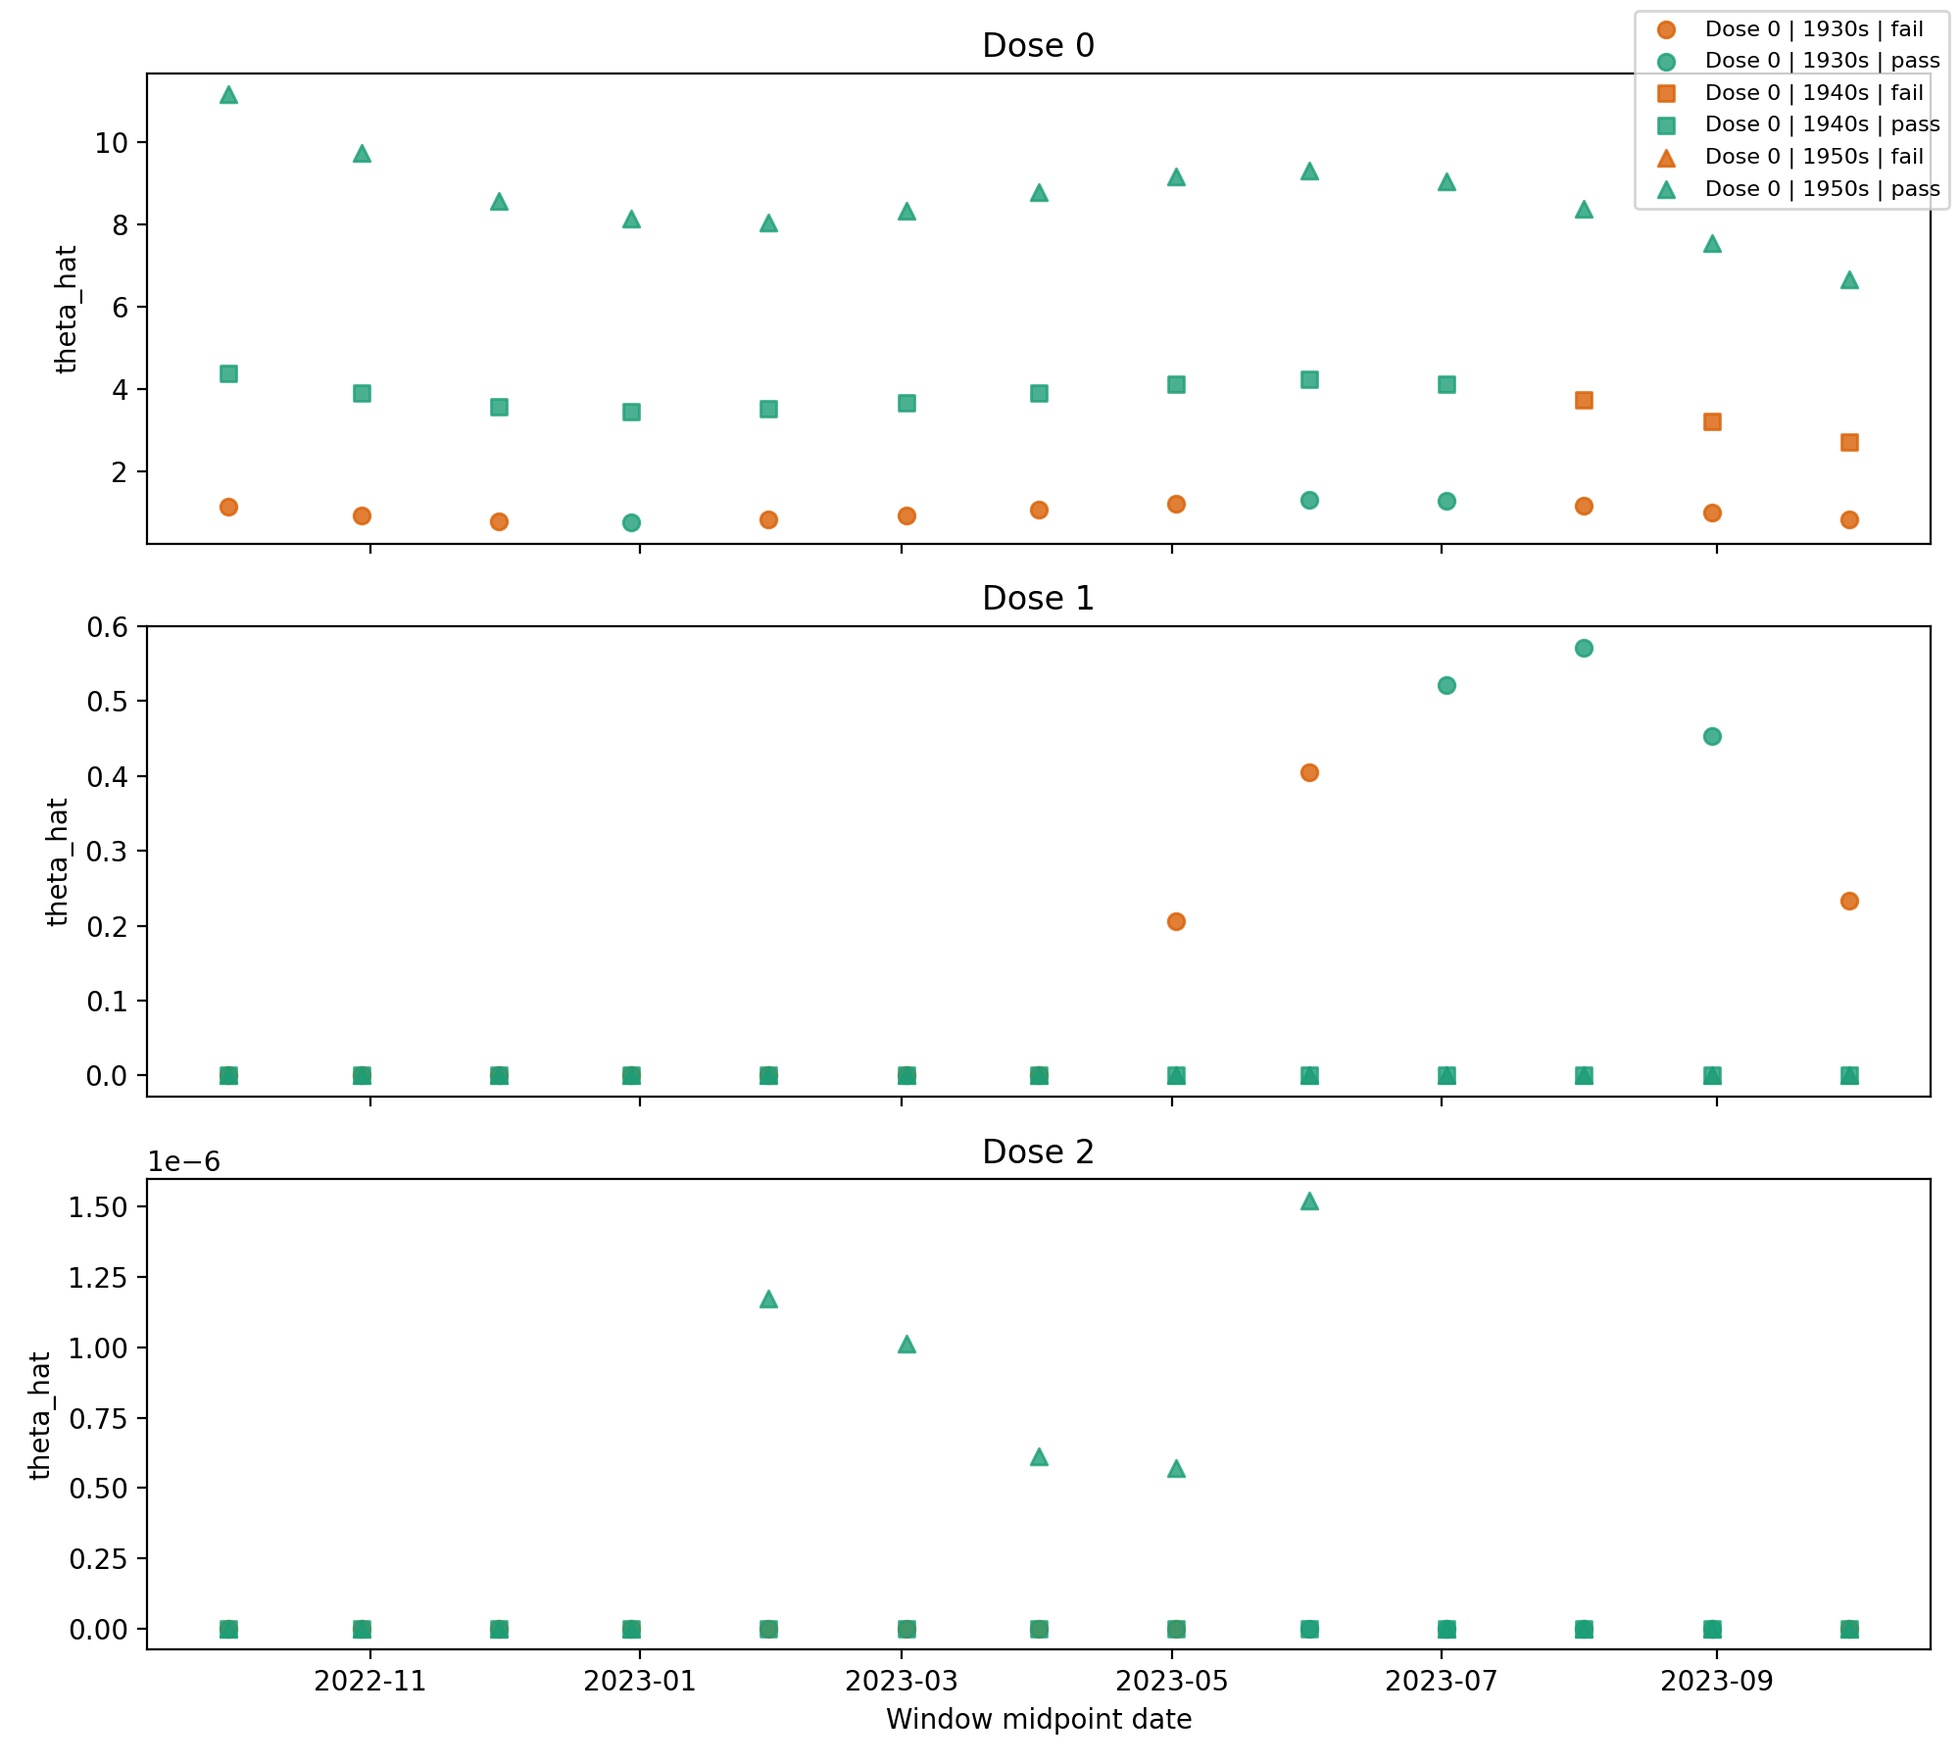
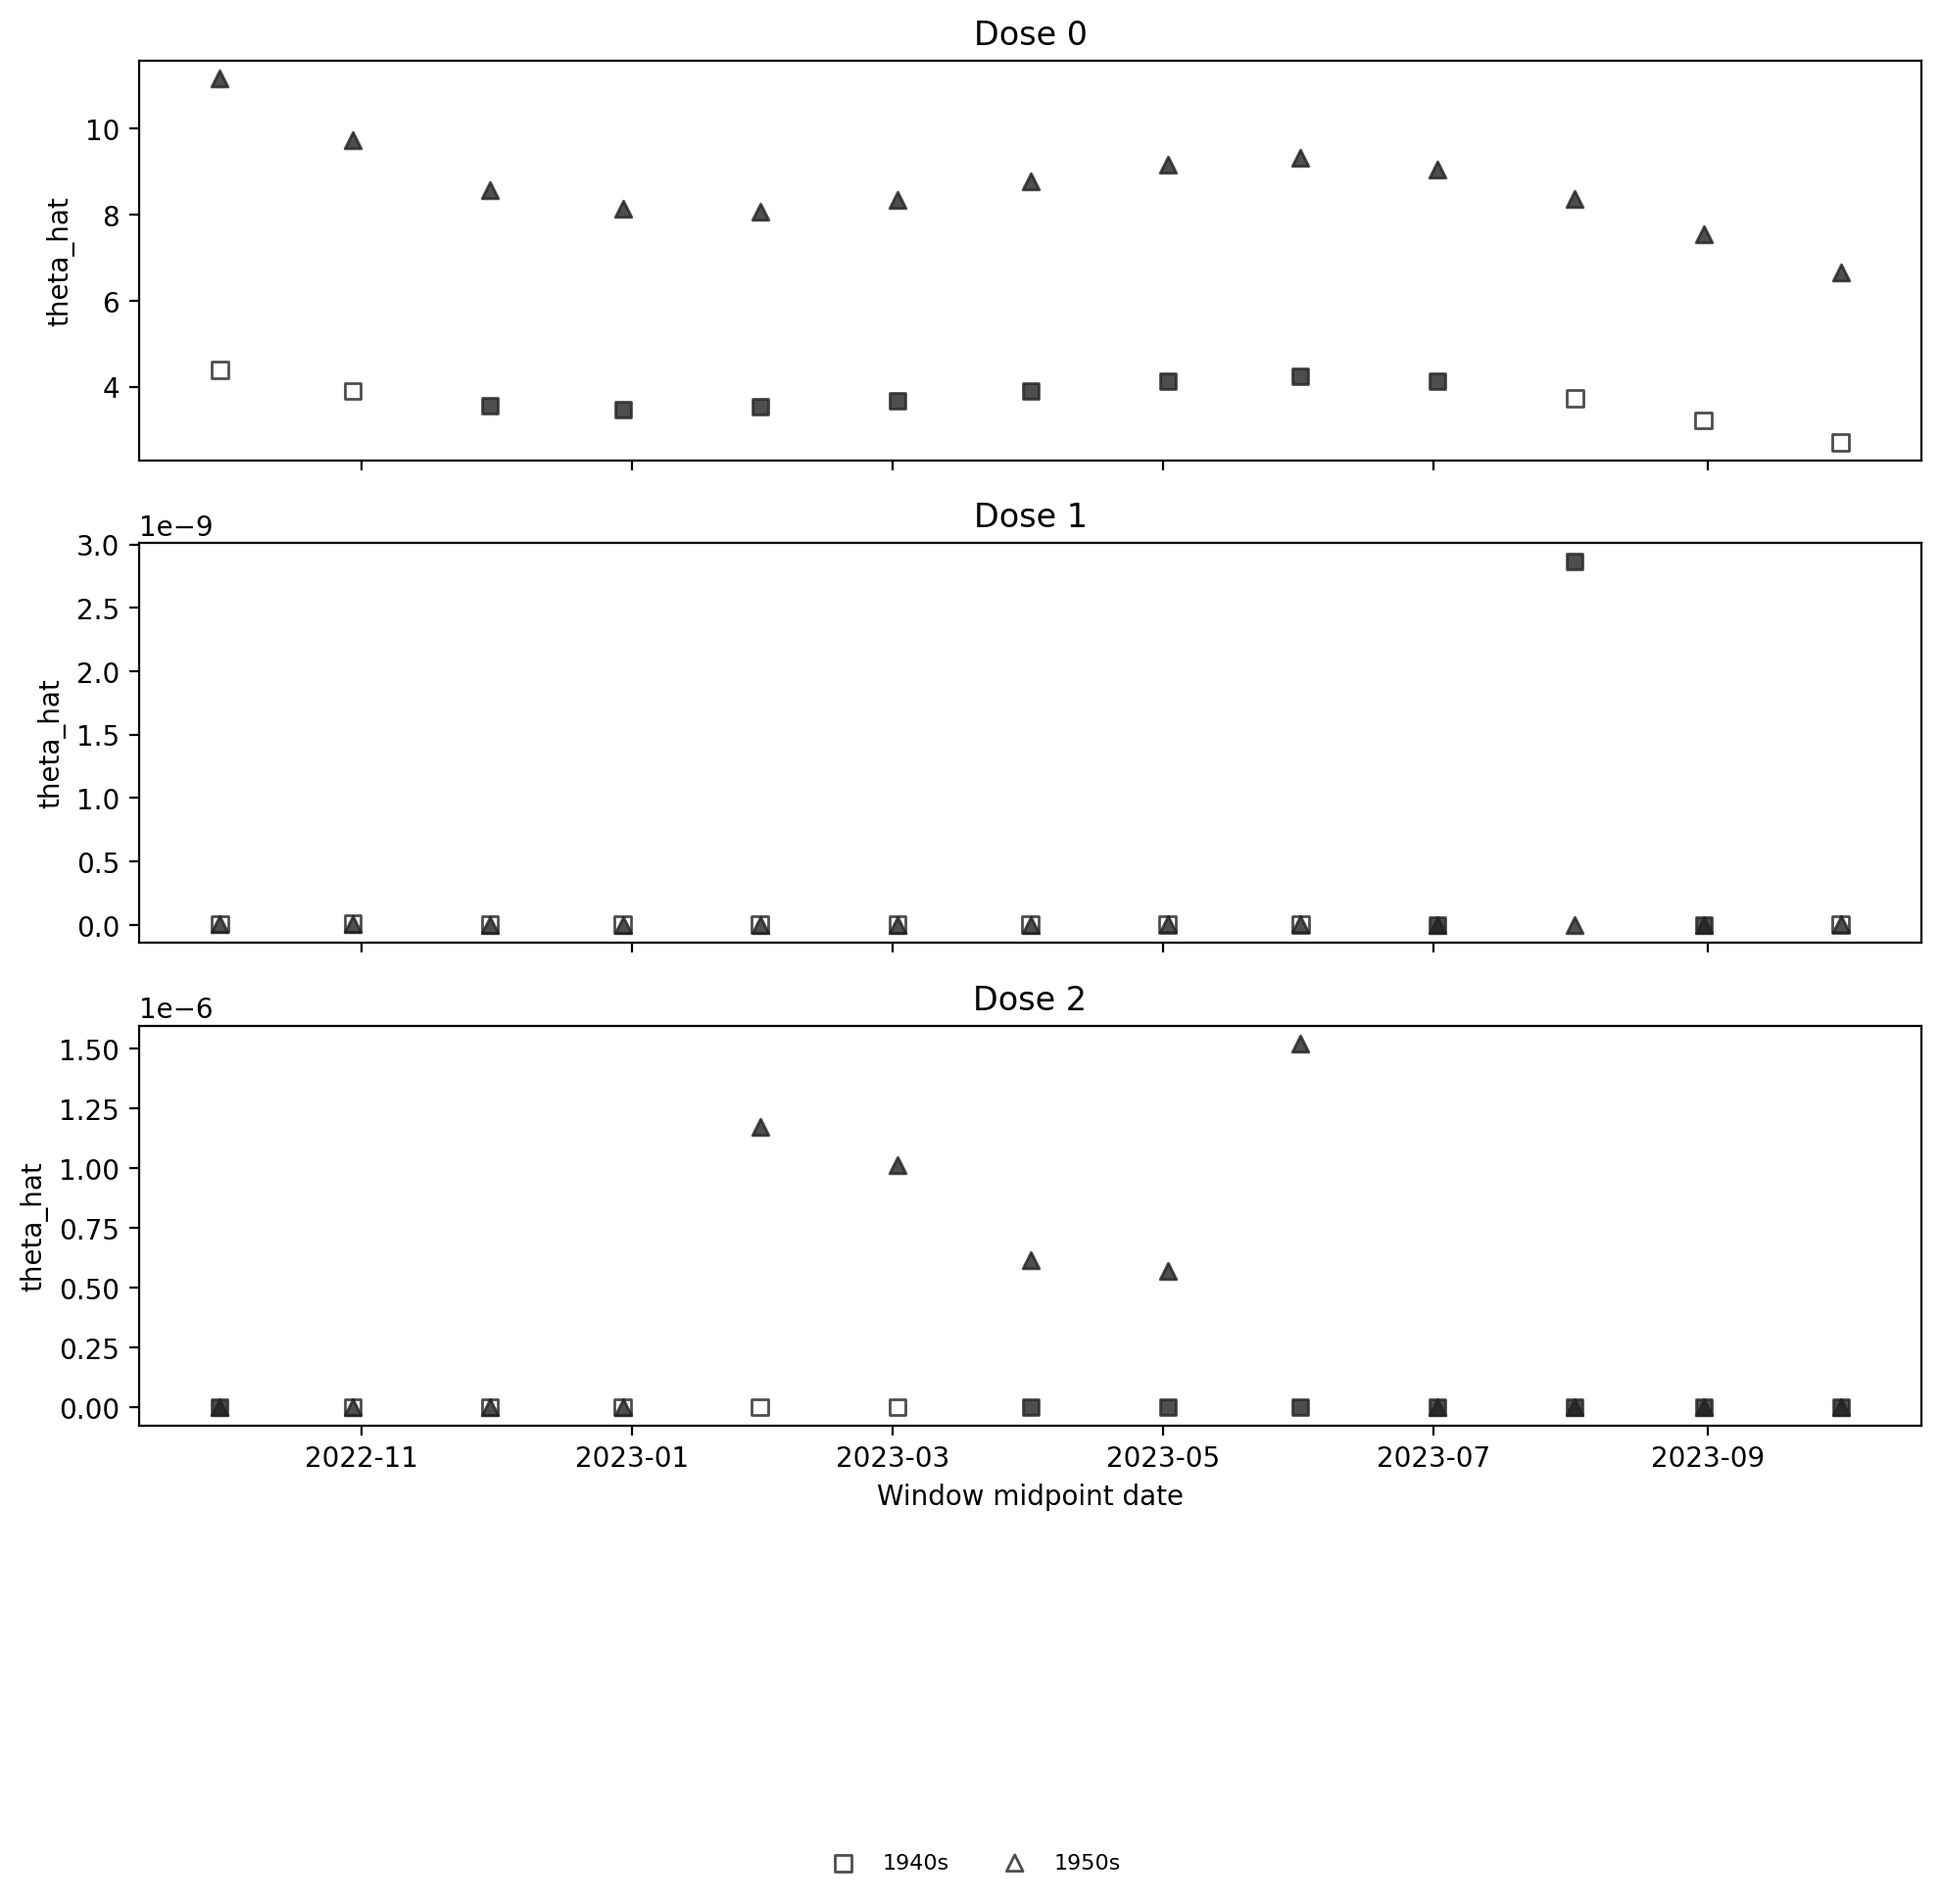
quiet window tests

diff --git a/scripts/quiet_window_scan_theta_czech_2021_24.py b/scripts/quiet_window_scan_theta_czech_2021_24.py
@@ -20,7 +20,7 @@ ENROLL_ISO_WEEK = 24
 WINDOW_START_DATE = date(2022, 4, 1)
 WINDOW_END_DATE = date(2023, 4, 1)
 
-YOB_DECADES = {1930, 1940, 1950}
+YOB_DECADES = {1940, 1950}
 
 
 @dataclass
@@ -258,7 +258,7 @@ def main():
 
     results_df["pass"] = results_df.apply(classify_pass, axis=1)
 
-    results_path = out_dir / "quiet_window_scan_theta_czech_2021_24_yob1930_40_50.csv"
+    results_path = out_dir / "quiet_window_scan_theta_czech_2021_24_yob1940_50.csv"
     results_df.to_csv(results_path, index=False)
 
     summary = (
@@ -289,7 +289,8 @@ def main():
         plot_df["window_midpoint_date"] = pd.to_datetime(plot_df["window_midpoint_date"])
 
         doses = sorted(plot_df["dose"].unique())
-        markers = {1930: "o", 1940: "s", 1950: "^"}
+        markers = {1940: "s", 1950: "^"}
+        label_map = {1940: "1940s", 1950: "1950s"}
         edge_color = "#222222"
 
         fig, axes = plt.subplots(len(doses), 1, figsize=(10, 3 * len(doses)), sharex=True)
@@ -305,7 +306,7 @@ def main():
                     ax.scatter(
                         subset["window_midpoint_date"],
                         subset["theta_hat"],
-                        label=f"{decade}s",
+                        label=label_map.get(decade, f"{decade}s"),
                         alpha=0.8,
                         marker=markers.get(decade, "o"),
                         facecolors=edge_color if pass_value == 1 else "none",
@@ -325,12 +326,14 @@ def main():
             fig.legend(
                 list(unique.values()),
                 list(unique.keys()),
-                loc="center right",
-                bbox_to_anchor=(1.02, 0.5),
+                loc="lower center",
+                bbox_to_anchor=(0.5, -0.08),
+                ncol=len(unique),
                 fontsize=8,
+                frameon=False,
             )
-        fig.tight_layout(rect=[0, 0, 0.85, 1])
-        fig.savefig(fig_path, dpi=200)
+        fig.tight_layout(rect=[0, 0.12, 1, 1])
+        fig.savefig(fig_path, dpi=200, bbox_inches="tight")
         plt.close(fig)
         print(f"Wrote figure to {fig_path}")
     except Exception as exc:
